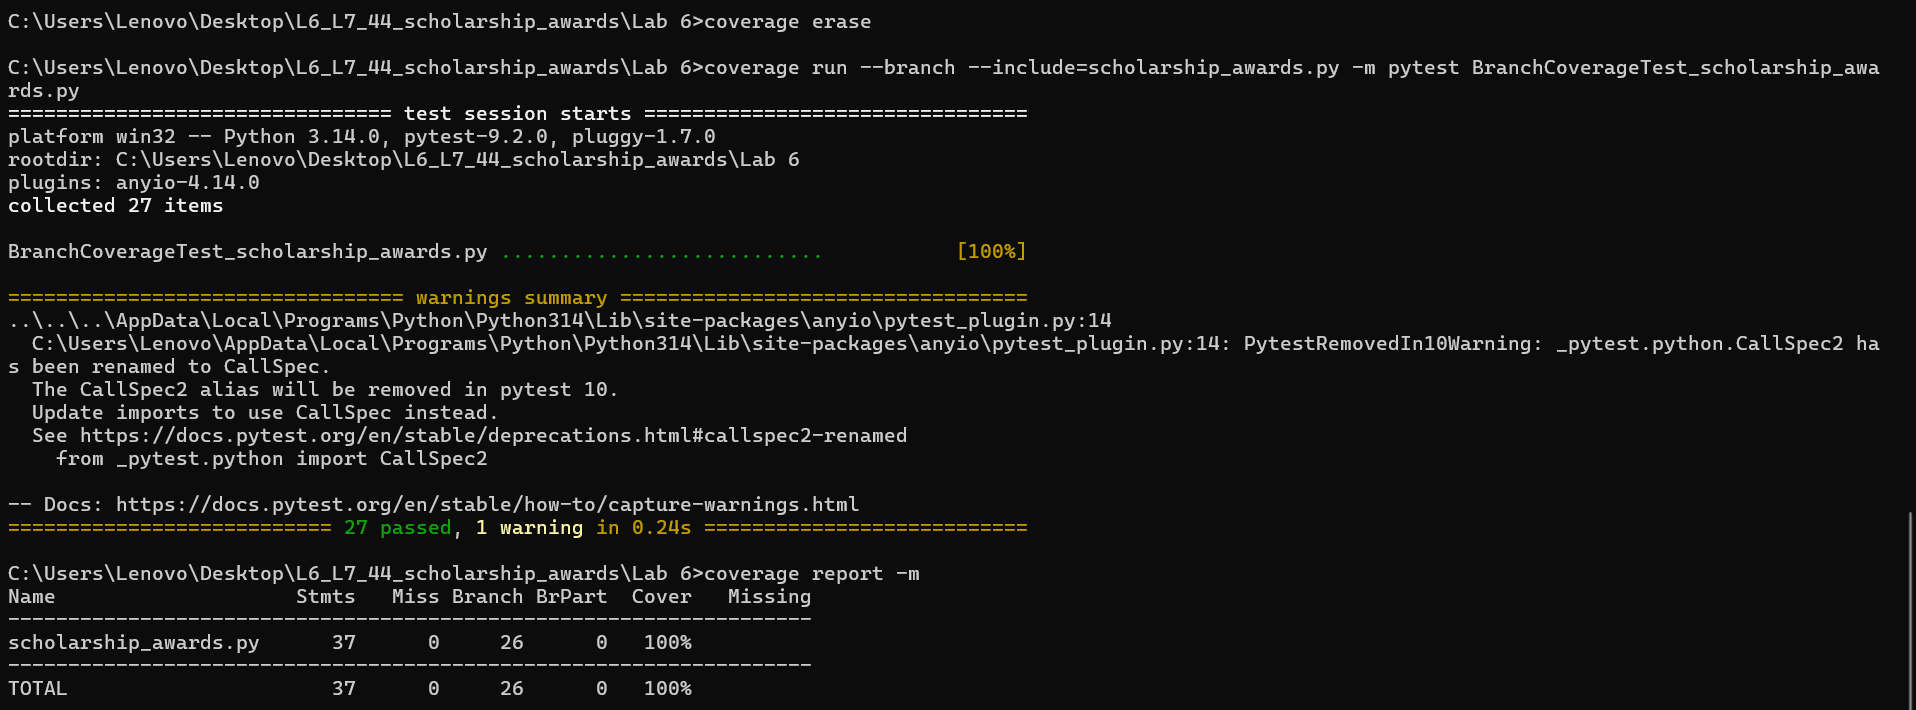
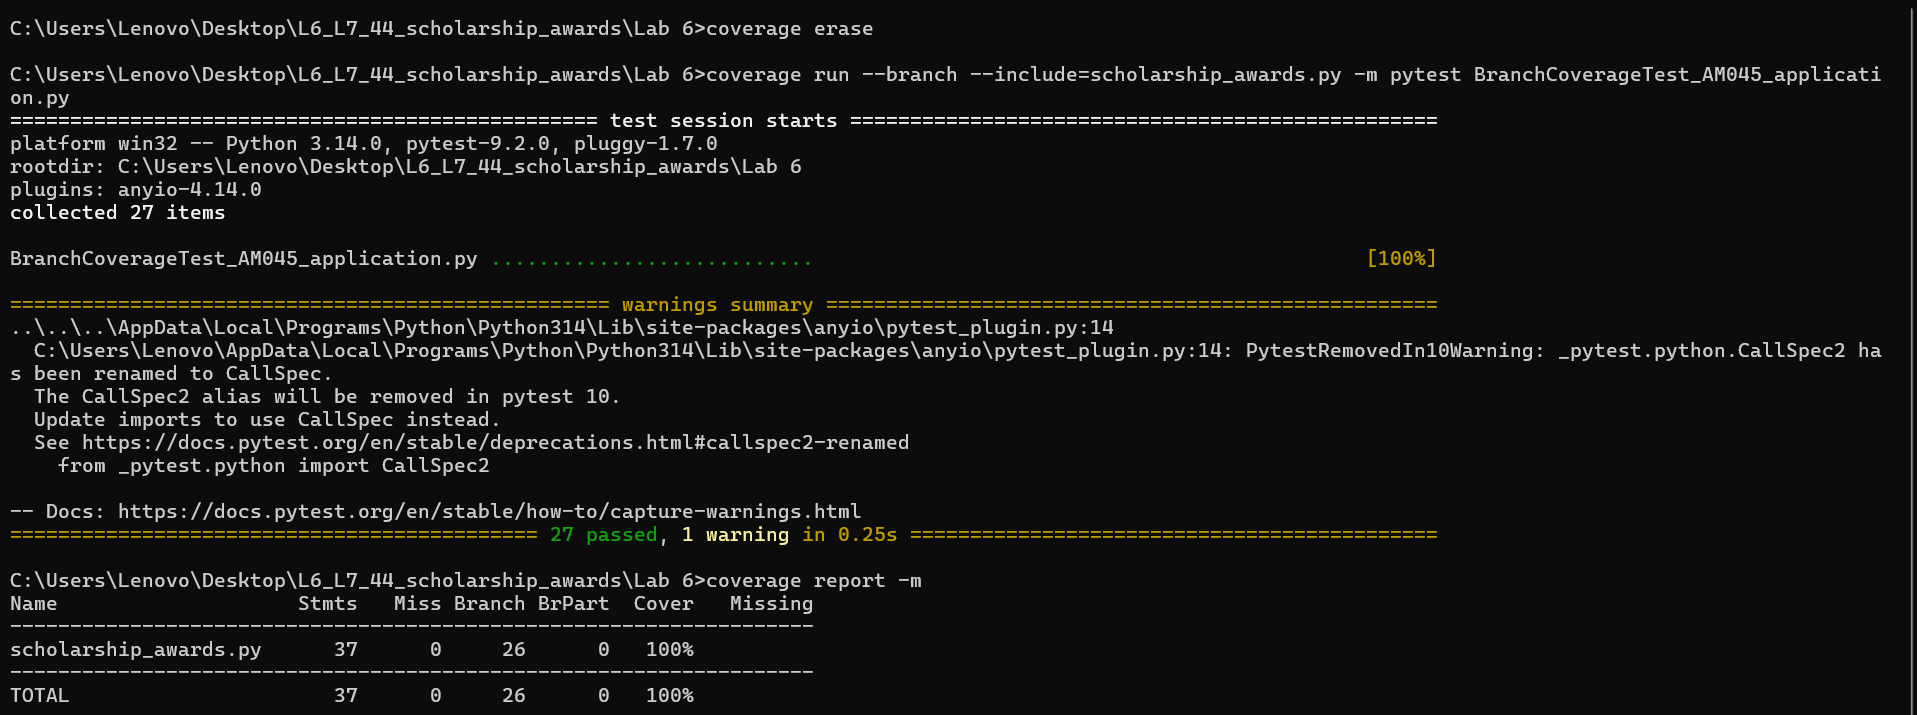
Lab 6: rename test files to AM045 convention and refresh screenshots

diff --git a/Lab 6/Coverage_Analysis_Report.md b/Lab 6/Coverage_Analysis_Report.md
@@ -17,7 +17,7 @@ Missing lines: 6, 8, 11, 15-23, 28, 30, 35-45. Untested paths: the unknown-categ
 
 ## 2. Code (line) coverage
 
-`CodeCoverageTest_scholarship_awards.py` has 14 tests. Each was added to execute a specific missed line:
+`CodeCoverageTest_AM045_application.py` has 14 tests. Each was added to execute a specific missed line:
 
 - Both `ValueError` raises (lines 6, 8).
 - Renewal cutoff reduction (line 11) and both income rates (lines 16, 18).
@@ -29,7 +29,7 @@ Missing lines: 6, 8, 11, 15-23, 28, 30, 35-45. Untested paths: the unknown-categ
 
 ## 3. Branch coverage
 
-`BranchCoverageTest_scholarship_awards.py` has 27 tests. Every decision is exercised for both True and False, plus boundary values:
+`BranchCoverageTest_AM045_application.py` has 27 tests. Every decision is exercised for both True and False, plus boundary values:
 
 - `is_renewal and category != "sports"`: renewal non-sports (True), renewal sports (False), non-renewal (False).
 - `above > 15` with `above == 15` as the boundary, and the inner `income_level == "low"` check on both sides.
